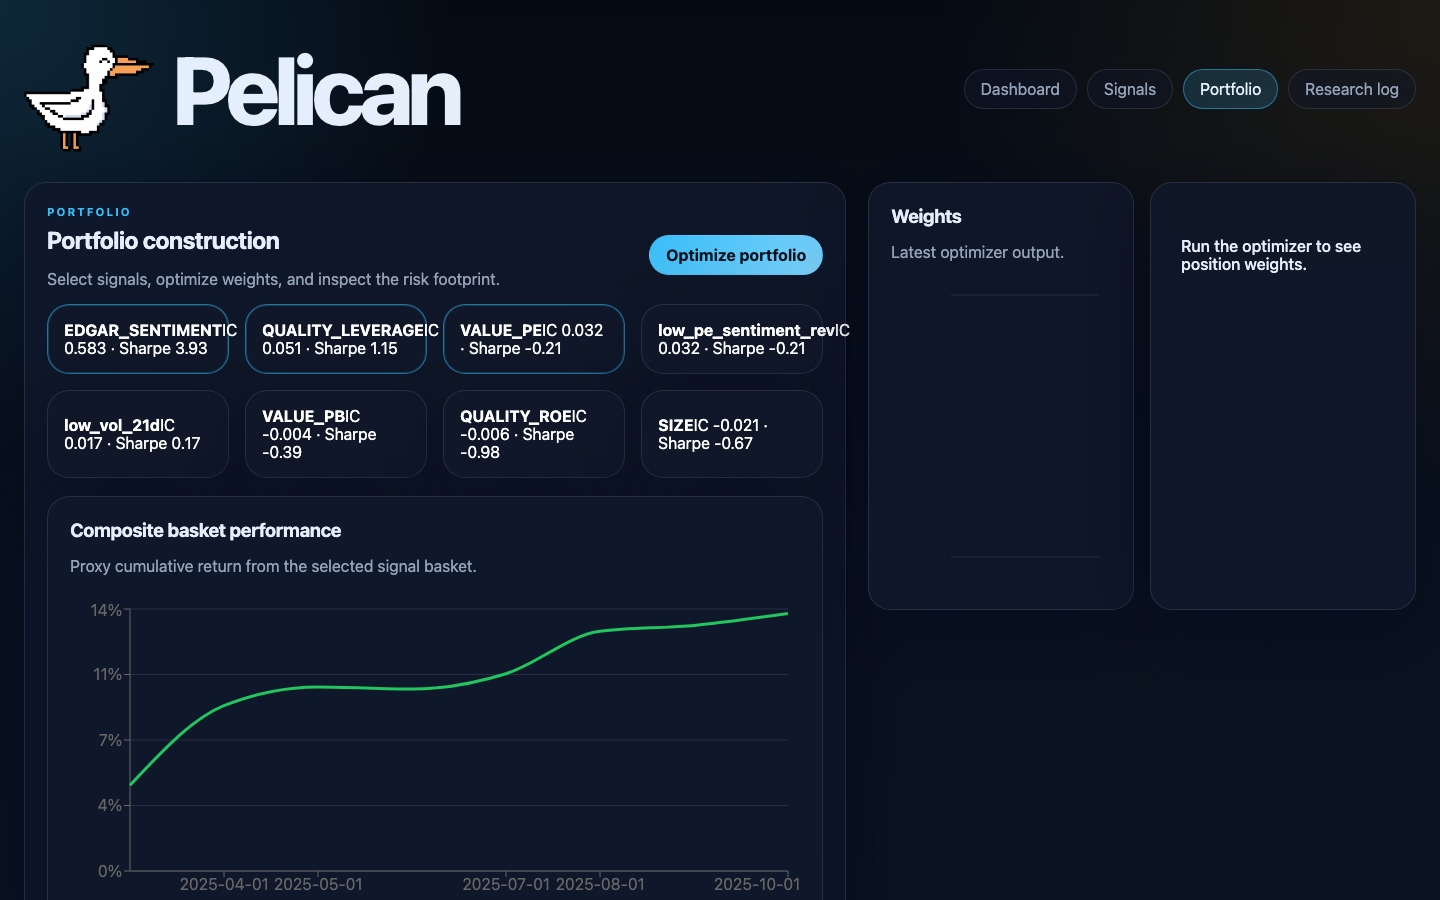
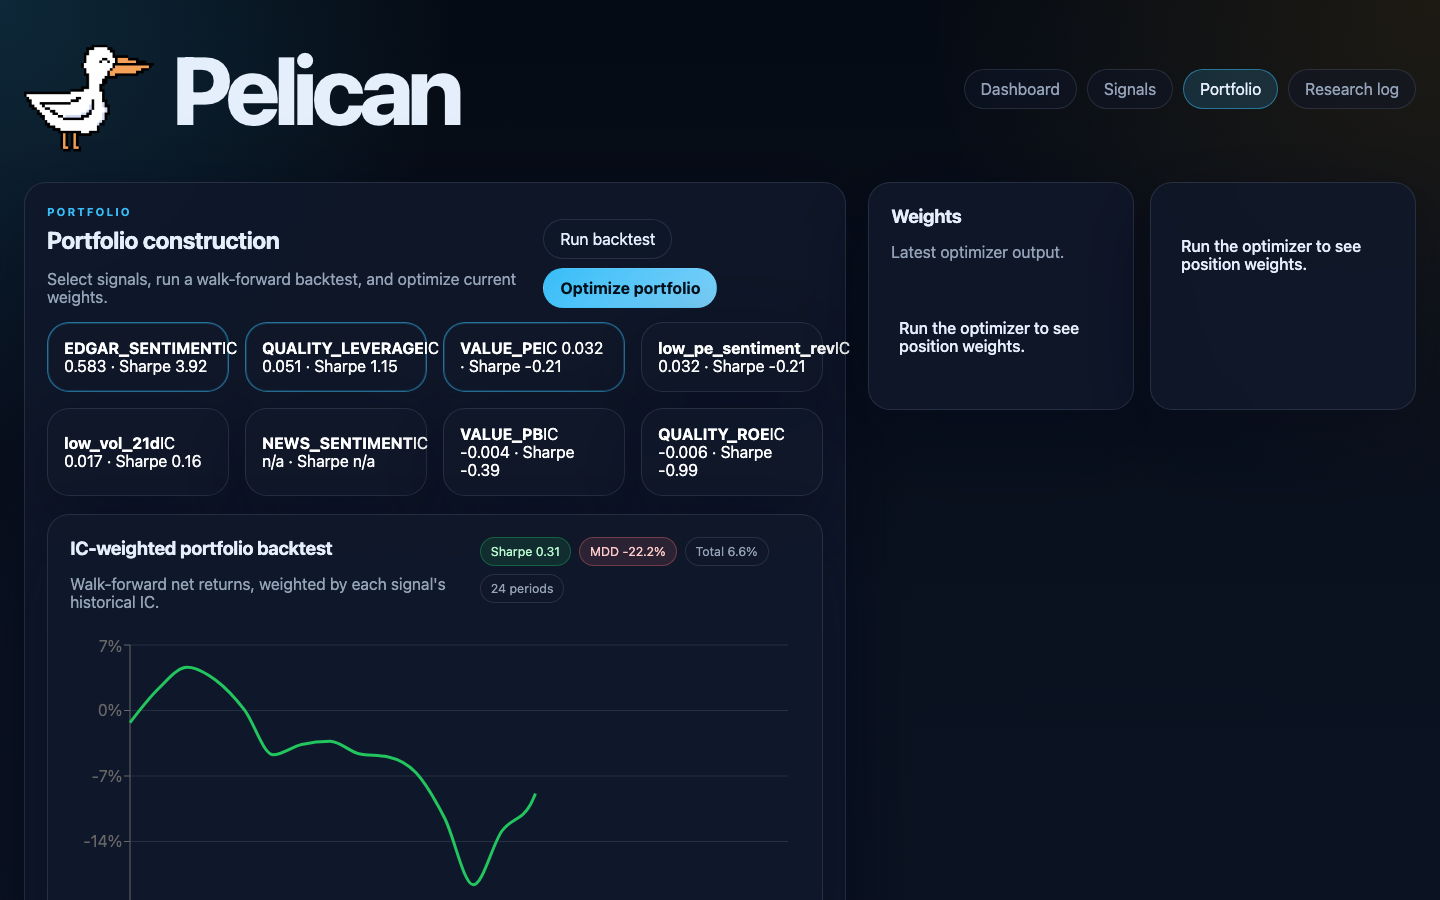
update readme with new screenshots and feature docs

diff --git a/README.md b/README.md
@@ -1,6 +1,6 @@
 # Pelican
 
-An agentic factor research platform. LLM agents autonomously discover, implement, and backtest quantitative alpha signals from academic literature. Accepted signals feed a risk-aware portfolio optimizer. A FastAPI + React dashboard lets you browse signals, inspect backtest tearsheets, and monitor the agent pipeline live.
+An agentic factor research platform. LLM agents autonomously discover, implement, and backtest quantitative alpha signals from academic literature. Accepted signals feed a risk-aware portfolio optimizer. A FastAPI + React dashboard lets you browse signals, inspect backtest tearsheets, run a walk-forward portfolio backtest, and monitor the agent pipeline live.
 
 ---
 
@@ -12,17 +12,22 @@ Overview of registered signals, agent runs, top performers by IC t-stat, and a q
 ![Dashboard](docs/screenshot_dashboard.png)
 
 ### Factor Library
-Full signal table sortable by Sharpe, IC, or turnover. Click any row to open its tearsheet with equity curves and quintile spreads. Agent-discovered signals appear here automatically alongside the hand-coded factor library.
+Full signal table sortable by Sharpe, IC, or turnover. Agent-discovered signals carry a purple **Agent** badge. Signals with fewer than 50 tickers scored show a **Sparse data** warning. Click any row to open its tearsheet.
 
 ![Signals](docs/screenshot_signals.png)
 
+### Signal Tearsheet — QUALITY_LEVERAGE
+Per-period IC decay, drawdown curve, and quintile spread equity curve for each registered factor.
+
+![Tearsheet](docs/screenshot_tearsheet.png)
+
 ### Research Log
-Full lineage for every agent run — papers fetched from arXiv, the generated hypothesis, the produced signal code, and the backtest verdict. Click a row to inspect the full run detail on the right.
+Full lineage for every agent run — papers fetched from arXiv, the generated hypothesis, the produced signal code, and the backtest verdict.
 
 ![Research Log](docs/screenshot_research.png)
 
 ### Portfolio Construction
-Select signals, run the CVXPy optimizer, and view the composite basket equity curve and weights.
+Select signals, run the IC-weighted walk-forward backtest, and optimize current weights with the CVXPy mean-variance solver.
 
 ![Portfolio](docs/screenshot_portfolio.png)
 
@@ -44,14 +49,18 @@ cp .env.example .env
 Get a free API key at [openrouter.ai](https://openrouter.ai). The default model (`meta-llama/llama-3.3-70b-instruct:free`) is free with no rate-limit fees.
 
 ```bash
-# 3. Seed data  (~30 min, ~10 GB — prices first, then fundamentals)
+# 3. Seed data (~30 min, ~10 GB — prices first, then fundamentals)
 python scripts/seed_data.py
 python scripts/seed_fundamentals.py
 
-# 4. Start the API server
+# 4. Optional: seed alternative data
+python scripts/seed_edgar.py          # SEC MD&A tone scoring via LLM
+python scripts/seed_news.py           # News headline sentiment via LLM
+
+# 5. Start the API server
 uvicorn pelican.api.main:app --reload        # http://localhost:8000
 
-# 5. Start the frontend (separate terminal)
+# 6. Start the frontend (separate terminal)
 cd frontend && npm install && npm run dev    # http://localhost:5173
 ```
 
@@ -88,6 +97,7 @@ python scripts/run_agent.py --theme "12-1 month momentum" --no-research
 | `quality profitability` | ROE, gross profit margin, asset turnover |
 | `52-week high momentum` | Distance from 52-week high as an anchor signal |
 | `sentiment earnings announcements` | Post-earnings drift, analyst revision breadth |
+| `news sentiment and price reaction` | Headline tone, earnings surprise, analyst revision |
 
 ---
 
@@ -98,9 +108,9 @@ Research Theme
       │
       ▼
 ┌─────────────────────────────────────────────────────────────────┐
-│  RESEARCHER — searches arXiv for relevant papers, extracts a    │
-│  grounded signal hypothesis with economic rationale and the     │
-│  specific data columns to use                                   │
+│  RESEARCHER — searches arXiv for relevant papers, extracts up   │
+│  to 3 distinct signal hypotheses with economic rationale and    │
+│  specific data columns; avoids duplicating existing signals     │
 └───────────────────────────┬─────────────────────────────────────┘
                             │ hypothesis + citations
                             ▼
@@ -112,18 +122,18 @@ Research Theme
                             │ generated code
                             ▼
 ┌─────────────────────────────────────────────────────────────────┐
-│  CRITIC — runs a real point-in-time backtest, checks            │
-│  IC t-stat ≥ 0.5 and net Sharpe ≥ 0.3; returns accept or       │
+│  CRITIC — runs a real 3-year point-in-time backtest, checks     │
+│  IC t-stat ≥ 1.5 and net Sharpe ≥ 0.3; returns accept or       │
 │  reject with written feedback                                   │
 └────────┬──────────────────┴──────────────────────┬─────────────┘
-         │ reject (up to 2 retries)                │ accept
-         └──────────► CODER (retry)                ▼
-                                         Signal added to registry
-                                         + investment memo written
-                                         + persisted to DuckDB
+         │ reject (up to 2 retries,                │ accept
+         │ next hypothesis each cycle)             ▼
+         └──────────► RESEARCHER (retry)  Signal added to registry
+                                          + investment memo written
+                                          + persisted to DuckDB
 ```
 
-The graph is a LangGraph state machine. Each node is a pure `(State) -> State` function; the Critic's conditional edge drives the retry loop.
+The graph is a LangGraph state machine. Each node is a pure `(State) -> State` function; the Critic's conditional edge drives the retry loop. On retry, the Coder picks the next hypothesis in sequence so each attempt tries a genuinely different economic mechanism.
 
 ---
 
@@ -134,35 +144,64 @@ pelican/
 ├── pelican/
 │   ├── agents/         # LangGraph graph, researcher/coder/critic/reporter nodes
 │   │   ├── prompts/    # system prompts (researcher.md, coder.md, reporter.md)
-│   │   └── tools/      # arXiv search, PDF extract, ChromaDB vector store, sandbox exec
+│   │   └── tools/      # arXiv search, ChromaDB deduplication, sandbox exec
 │   ├── backtest/       # vectorized Polars engine, signal registry, metrics
-│   ├── data/           # DuckDB store, price/fundamental ingestion
+│   ├── data/           # DuckDB store, price/fundamental/EDGAR/news ingestion
+│   ├── factors/        # 8 hand-coded factors + EDGAR_SENTIMENT + NEWS_SENTIMENT
 │   ├── portfolio/      # CVXPy optimizer, Ledoit-Wolf risk model, signal combiner
 │   ├── api/            # FastAPI app + SSE streaming router
 │   └── utils/          # pydantic-settings config, structured logging
 ├── frontend/           # React 18 + Vite + TypeScript + Recharts dashboard
-├── scripts/            # seed_data.py, run_agent.py, run_factor_library.py
-└── tests/              # pytest suite (~360 tests, fully mocked LLM/HTTP)
+├── scripts/            # seed_data.py, seed_edgar.py, seed_news.py, run_agent.py
+└── tests/              # pytest suite (~361 tests, fully mocked LLM/HTTP)
 ```
 
 ### Data layer
 
-Single DuckDB file. Three core tables:
+Single DuckDB file. Five core tables:
 
 | Table | Contents |
 |---|---|
 | `sp500_universe` | Survivorship-bias-free S&P 500 membership history |
 | `prices` | Daily OHLCV + `log_return_1d`, `forward_return_21d` |
 | `fundamentals` | Quarterly ratios with `available_date = period_end + 45d` (point-in-time anchor) |
+| `edgar_sentiment` | LLM-scored MD&A tone per (ticker, filing_date, filing_type); YoY delta pre-computed |
+| `news_sentiment` | Daily per-ticker headline sentiment averaged across LLM-scored articles |
 | `research_log` | Full lineage for every agent run (papers, hypothesis, code, metrics) |
+
+### Factor library
+
+Ten registered signals across four families:
+
+| Signal | Family | Description |
+|---|---|---|
+| `MOM_1_12` | Momentum | 12-1 month price momentum (Jegadeesh & Titman 1993) |
+| `REVERSAL_1M` | Reversal | 1-month short-term reversal (Lo & MacKinlay 1990) |
+| `LOW_VOL` | Risk | Low realized volatility (Baker et al. 2011) |
+| `SIZE` | Fundamental | Log market cap (Fama & French 1992) |
+| `VALUE_PE` | Fundamental | Earnings yield (negative P/E rank) |
+| `VALUE_PB` | Fundamental | Book-to-market ratio |
+| `QUALITY_ROE` | Fundamental | Return on equity (Novy-Marx 2013) |
+| `QUALITY_LEVERAGE` | Fundamental | Negative debt-to-equity (lower leverage = higher quality) |
+| `EDGAR_SENTIMENT` | Alternative | YoY MD&A tone shift from SEC 10-K/10-Q filings |
+| `NEWS_SENTIMENT` | Alternative | Daily headline sentiment from news articles |
 
 ### Backtest engine
 
-Fully vectorized over a Polars `(date × ticker)` panel. Monthly rebalance (21-day hold). Per rebalance date: queries point-in-time universe and fundamentals, builds cross-section features (lagged closes, rolling vols), computes signal scores, cross-sectional rank → z-score, forms Q5 (long) vs Q1 (short) equal-weighted quintile portfolios, measures 21-day forward returns.
+Fully vectorized over a Polars `(date × ticker)` panel. Monthly rebalance (21-day hold) over a 3-year window (~36 periods). Per rebalance date: queries point-in-time universe, joins fundamentals (`available_date ≤ rebalance_date`), EDGAR sentiment, and news sentiment; builds cross-section features (lagged closes, rolling vols); computes signal scores; cross-sectional rank → z-score; forms Q5 (long) vs Q1 (short) equal-weighted quintile portfolios; measures 21-day forward returns.
+
+Transaction costs use an Almgren-Chriss two-parameter model: `cost = (turnover × spread_bps + turnover^1.5 × impact_bps) / 10_000`. The super-linear impact term penalizes high-turnover strategies more than flat-bps models.
 
 ### Signal registry
 
 All signals — hand-coded and agent-discovered — live in an in-process `_REGISTRY` dict. Hand-coded signals register via `@register(SignalSpec(...))` at import time. Agent signals are compiled and inserted by `register_dynamic()` the moment they're accepted, and reloaded from `research_log` on server restart via `load_dynamic_signals()`.
+
+### Portfolio construction
+
+Two-stage pipeline:
+
+1. **Backtest** (`POST /portfolio/backtest`) — walks forward over all historical rebalance dates, IC-weights each signal's L/S net returns, and returns a cumulative equity curve with Sharpe, max drawdown, and total return.
+2. **Optimize** (`POST /portfolio/optimize`) — solves a CVXPy mean-variance QP at a single rebalance date: dollar-neutral (`sum(w)=0`), gross long = 1, gross short = −1, per-stock cap 5%. Covariance from Ledoit-Wolf shrinkage over 252-day daily returns. Risk decomposition into systematic (PCA factor) and idiosyncratic components.
 
 ### SSE streaming
 
@@ -181,19 +220,26 @@ The agent pipeline runs in a thread executor. Events (`node_start`, `llm_token`,
 | Storage | DuckDB |
 | Vector store | ChromaDB (paper deduplication) |
 | Price + fundamental data | yfinance |
+| Alternative data | SEC EDGAR API (no key), yfinance news |
 | Portfolio optimization | CVXPy (CLARABEL/OSQP) |
 | API server | FastAPI + Uvicorn |
 | Frontend | React 18, Vite, TypeScript, Recharts |
-| Testing | pytest (~360 tests) |
+| Testing | pytest (~361 tests) |
 
 ---
 
 ## Key Design Decisions
 
-**Point-in-time correctness** — every join in the backtest engine uses `available_date ≤ rebalance_date` to anchor fundamentals, and `entry_date / exit_date` for universe membership. No look-ahead bias by construction.
+**Point-in-time correctness** — every join in the backtest engine uses `available_date ≤ rebalance_date` to anchor fundamentals, `filing_date ≤ rebalance_date` for EDGAR/news data, and `entry_date / exit_date` for universe membership. No look-ahead bias by construction.
 
 **Sandboxed code execution** — LLM-generated signal code runs in a restricted namespace (allowlisted imports: `polars`, `numpy`, `math` only). The executor also validates output shape, dtype, null rate, and absence of `inf`/`nan`.
 
-**Signal acceptance gate** — the Critic enforces IC t-stat ≥ 0.5 and net L/S Sharpe ≥ 0.3 so the registry only accumulates genuine signals.
+**Signal acceptance gate** — the Critic enforces IC t-stat ≥ 1.5 and net L/S Sharpe ≥ 0.3 over a 3-year window (~36 monthly periods). At 36 periods, IC t-stat ≥ 1.5 requires a real ICIR ≥ 0.25, a meaningful statistical bar.
 
-**Hypothesis-grounded generation** — the Researcher extracts up to 3 distinct signal hypotheses per arXiv search, each with economic rationale and exact column names. ChromaDB deduplicates against previously explored papers to prevent the agent from re-proposing the same ideas.
+**Multi-hypothesis retry** — the Researcher generates 3 distinct signal hypotheses per arXiv search. On critic rejection, the Coder picks the next hypothesis in sequence so each retry cycle explores a different economic mechanism rather than rephrasing the same idea.
+
+**Registry deduplication** — existing signal names are passed into every researcher prompt so the LLM avoids re-proposing signals already in the registry.
+
+**Almgren-Chriss cost model** — transaction costs decompose into spread (linear in turnover) and market impact (scales as `turnover^1.5`). High-turnover strategies are penalized more than they would be under a flat-bps model, which is empirically more accurate for equity L/S.
+
+**Sparse data warnings** — signals computed on fewer than 50 tickers (e.g. partially-seeded alternative data) show a **Sparse data** chip in the UI rather than the normal **Active** chip, making statistical unreliability explicit.
